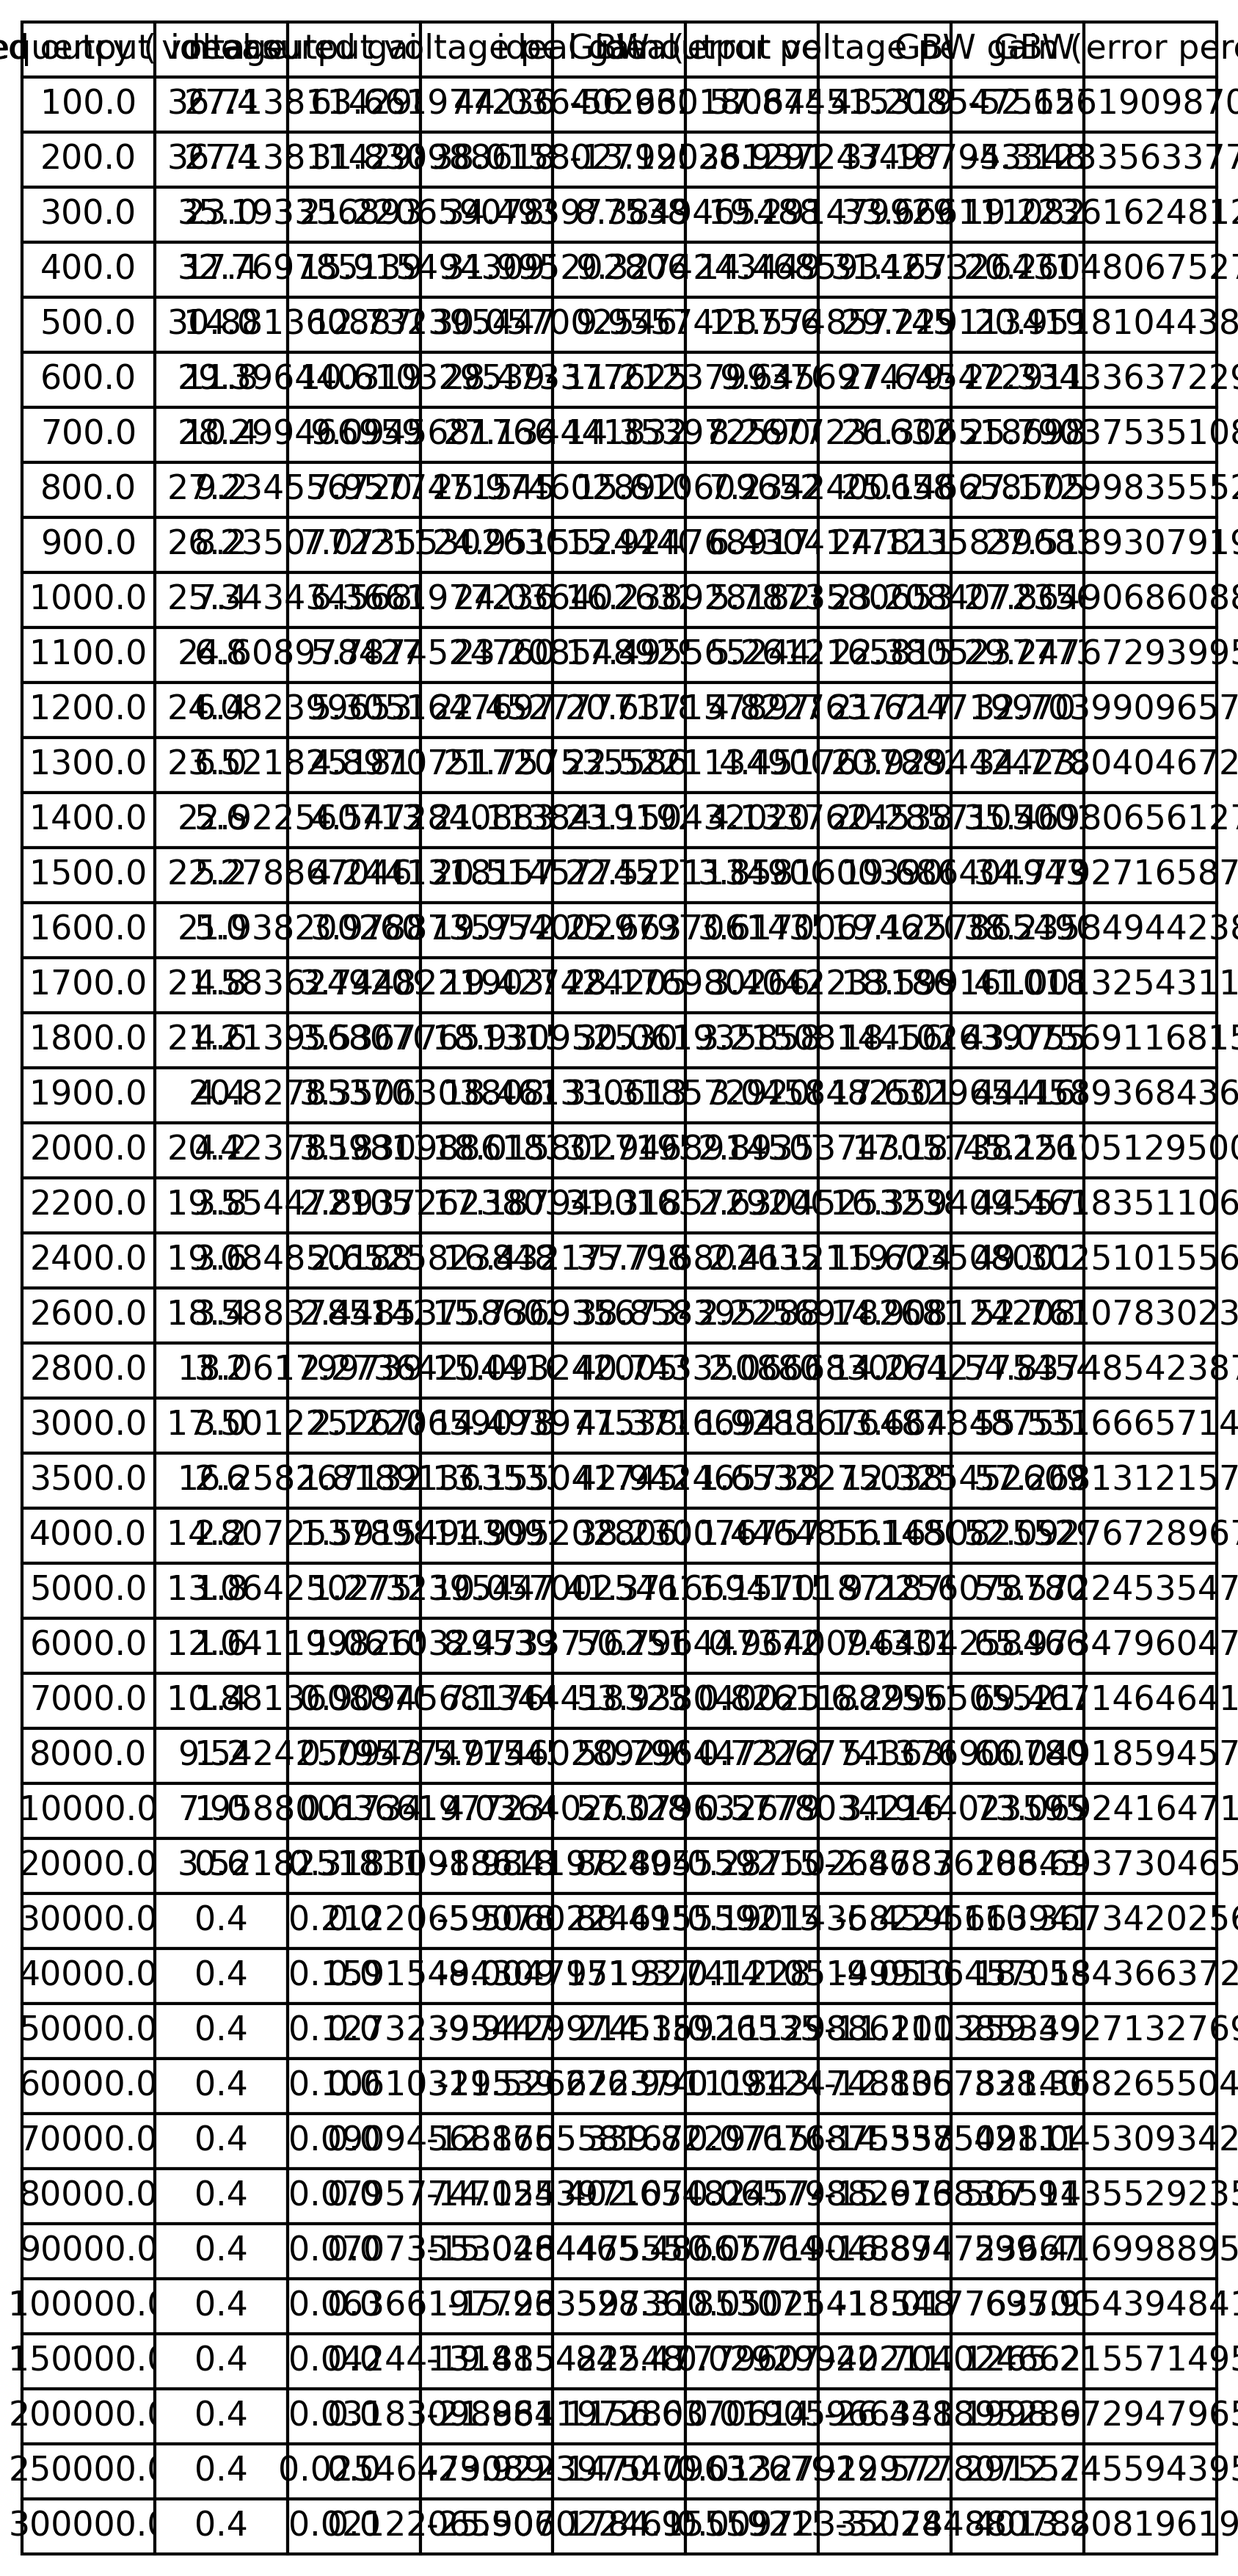
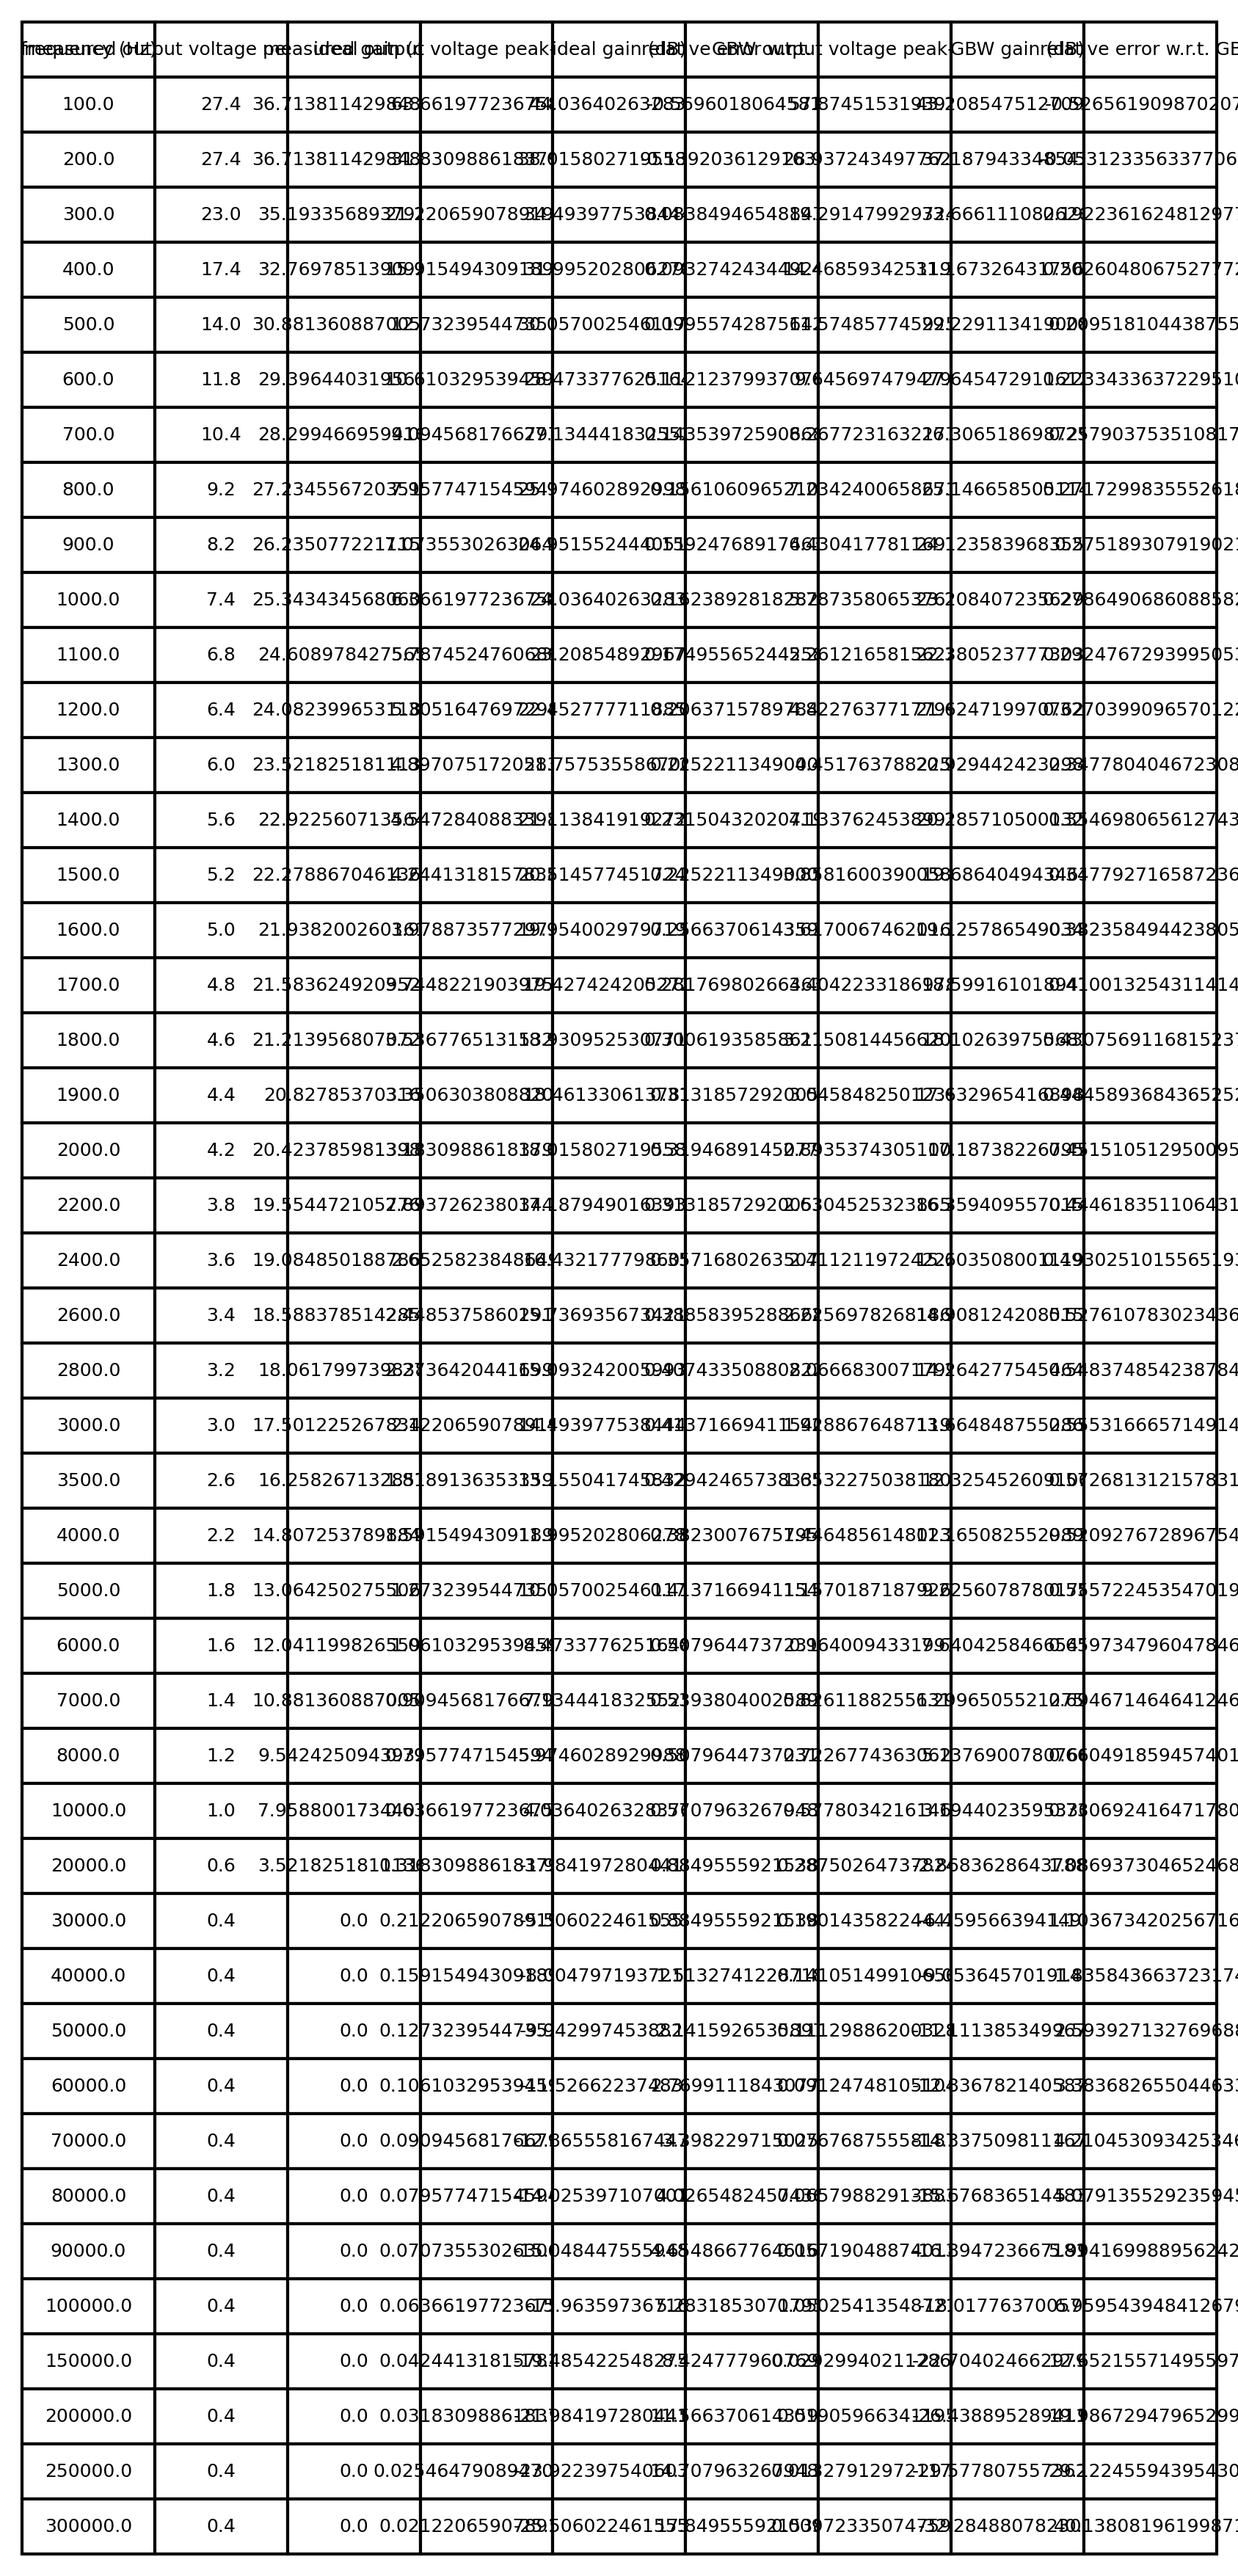
2026-10-20T17:24:44+00:00

Changed region(s): [[0.0, 0.0, 1.0, 0.9937]]

diff --git a/2/post-lab/bode_plot.py b/2/post-lab/bode_plot.py
@@ -83,7 +83,7 @@ def process(C, freq, vout_pp, name, title, plotname, tablename):
         cellLoc="center",
     )
     table.auto_set_font_size(False)
-    table.set_fontsize(11)
+    table.set_fontsize(6)
     table.scale(1, 1.5)
     fig.savefig(tablename, dpi=300, bbox_inches="tight")
     plt.close(fig)
